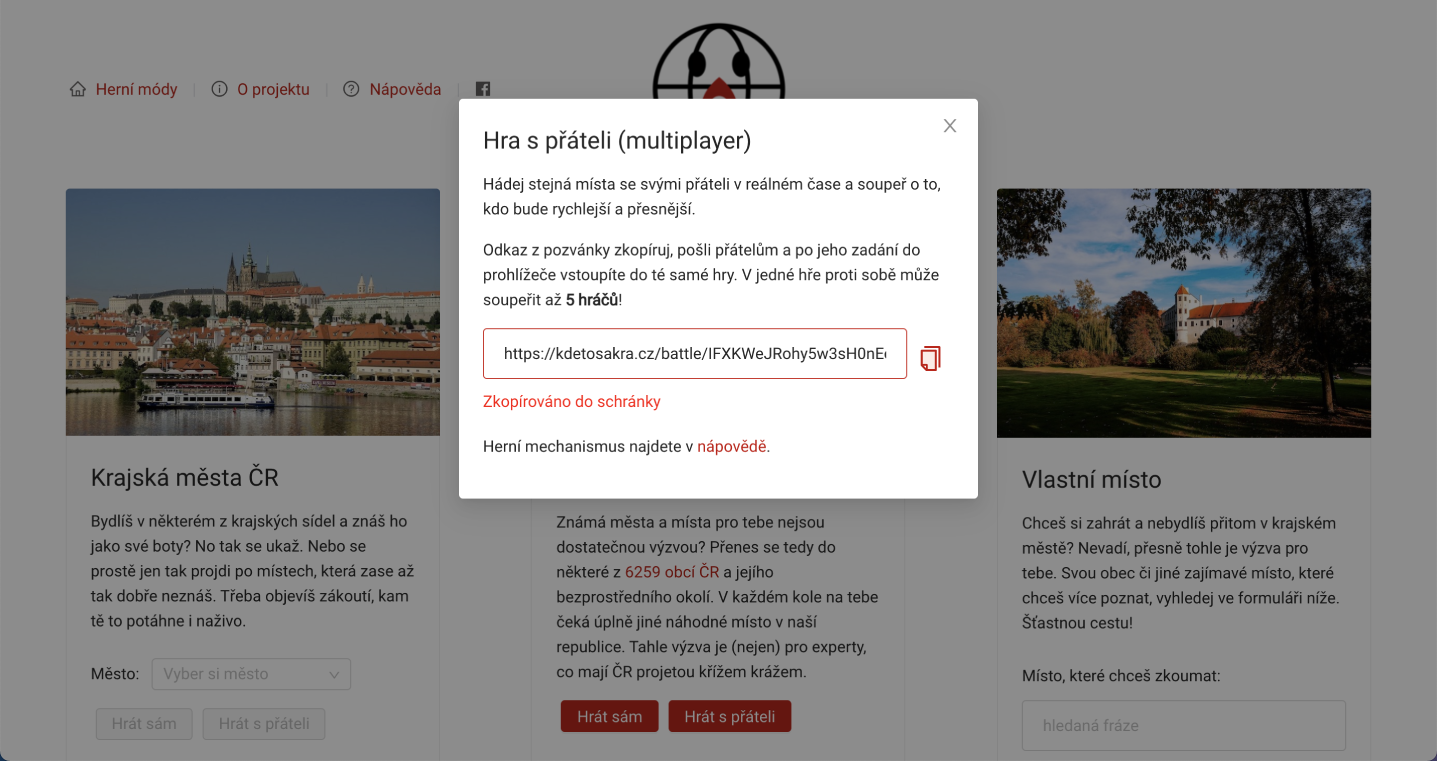
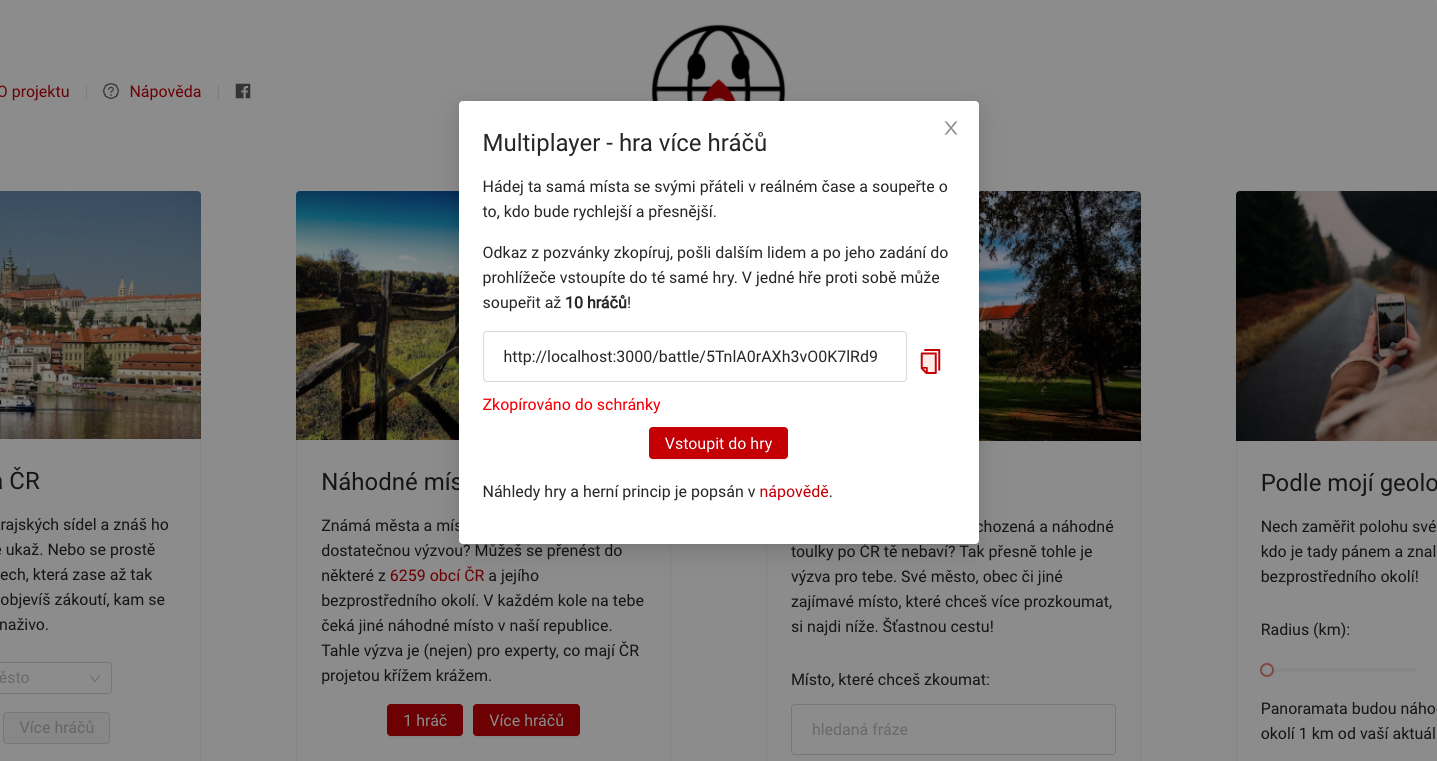
Game UX improvements

diff --git a/src/components/BattlePlayersList/BattlePlayersList.js b/src/components/BattlePlayersList/BattlePlayersList.js
@@ -85,6 +85,8 @@ const BattlePlayersList = ({ myPlayer, battleCanBeStarted }) => {
 
     const isBattleCreator = currentBattleInfo.createdById !== null && currentBattleInfo.createdById === randomUserToken;
 
+    const gameCreatorStartButtonDisabled = !battleCanBeStarted || !currentBattleInfo.myNickname || currentBattleInfo.myNickname.length < 2;
+
     useEffect(() => {
         if (inputEl.current !== null) {
             setGeneratedName(currentBattleInfo.myNickname);
@@ -260,17 +262,19 @@ const BattlePlayersList = ({ myPlayer, battleCanBeStarted }) => {
                 <>
                     <div key={`waiting-battle-players-detail-${i}`} className="battle-players-detail">
                         {myPlayer?.userId === userId ? (
-                            <Input
-                                bordered={false}
-                                size="small"
-                                maxLength={20}
-                                defaultValue={name}
-                                disabled={isBattleCreator ? false : isReady}
-                                ref={inputEl}
-                                onChange={e => {
-                                    dispatch(setMyUserInfoNicknameToCurrentBattle(e.target.value));
-                                }}
-                            />
+                            <>
+                                <Input
+                                    bordered={false}
+                                    size="small"
+                                    maxLength={20}
+                                    defaultValue={name}
+                                    disabled={isBattleCreator ? false : isReady}
+                                    ref={inputEl}
+                                    onChange={e => {
+                                        dispatch(setMyUserInfoNicknameToCurrentBattle(e.target.value));
+                                    }}
+                                />
+                            </>
                         ) : (
                             <div className="battle-players-detail--name">{name}</div>
                         )}
@@ -316,11 +320,7 @@ const BattlePlayersList = ({ myPlayer, battleCanBeStarted }) => {
                     <div className="battle-players">{battleId && getPlayersBeforeGameStarted()}</div>
                     {isBattleCreator ? (
                         <Button
-                            disabled={
-                                !battleCanBeStarted
-                                || !currentBattleInfo.myNickname
-                                || currentBattleInfo.myNickname.length < 2
-                            }
+                            disabled={gameCreatorStartButtonDisabled}
                             type="primary"
                             onClick={async () => {
                                 // if the user is a battle creator, he will generate rounds here
@@ -370,7 +370,11 @@ const BattlePlayersList = ({ myPlayer, battleCanBeStarted }) => {
                     )}
                     <p style={{ marginTop: '10px' }}>
                         {isBattleCreator ? (
-                            <>Hru můžeš začít, až budou všichni ostatní hráči připraveni.</>
+                            <>
+                                {gameCreatorStartButtonDisabled
+                                    ? 'Hru můžeš začít, až budou všichni ostatní hráči připraveni.'
+                                    : ''}
+                            </>
                         ) : (
                             <>
                                 Hra začíná, až všichni hráči zvolí možnost

diff --git a/src/components/BattleLinkModal/BattleLinkModal.js b/src/components/BattleLinkModal/BattleLinkModal.js
@@ -7,6 +7,7 @@ import { CopyTwoTone } from '@ant-design/icons';
 import { Link } from 'react-router-dom';
 import { createBattle } from '../../services/firebase';
 import useGetRandomUserToken from '../../hooks/useGetRandomUserToken';
+import { MAX_ALLOWED_BATTLE_PLAYERS } from '../../constants/game';
 
 const BattleLinkModal = ({
     visible, handleBattleModalVisibility, mode, radius, selectedCity,
@@ -36,7 +37,11 @@ const BattleLinkModal = ({
                         Odkaz z pozvánky zkopíruj, pošli dalším lidem a po jeho zadání do prohlížeče vstoupíte do té
                         samé hry. V jedné hře proti sobě může soupeřit až
                         {' '}
-                        <b>5 hráčů</b>
+                        <b>
+                            {MAX_ALLOWED_BATTLE_PLAYERS}
+                            {' '}
+                            hráčů
+                        </b>
                         !
                     </p>
                     <div className="battle-link-container">
@@ -50,6 +55,14 @@ const BattleLinkModal = ({
                         </div>
                     </div>
                     {isCopied ? <span style={{ color: 'red' }}>Zkopírováno do schránky</span> : null}
+                    <div style={{ display: 'flex', justifyContent: 'center', marginTop: '10px' }}>
+                        <Button type="primary">
+                            {/* eslint-disable-next-line react/jsx-no-target-blank */}
+                            <a href={battleLink} target="_blank" rel="noreferrer">
+                                Vstoupit do hry
+                            </a>
+                        </Button>
+                    </div>
                 </>
             )}
             <Spin spinning={generateLinkInProgress} size="large">

diff --git a/src/pages/Help.js b/src/pages/Help.js
@@ -1,6 +1,7 @@
 import React from 'react';
 import { Layout, Image } from 'antd';
 import { Link } from 'react-router-dom';
+import { MAX_ALLOWED_BATTLE_PLAYERS } from '../constants/game';
 
 const { Content } = Layout;
 
@@ -50,8 +51,13 @@ export const Help = () => {
                         K vytvoření hry pro více hráčů a jejímu hraní není nutná registrace. Tvůrce hry (ten, co chce
                         pozvat ke hře jiné hráče) vybere jeden z herních módů a jako typ hry zvolí &quot;Hrát s
                         přáteli&quot;. V následujícím dialogu vygeneruje pozvánku a získá unikátní odkaz, který si
-                        zkopíruje a zašle jej dalším hráčům. Může pozvat až 4 další hráče. Hráči si otevřou zaslaný
-                        odkaz v prohlížeči a všichni se octnou ve společné herní místnosti (viz dále).
+                        zkopíruje a zašle jej dalším hráčům. Může pozvat až
+                        {' '}
+                        {MAX_ALLOWED_BATTLE_PLAYERS - 1}
+                        {' '}
+                        dalších
+                        hráčů. Hráči si otevřou zaslaný odkaz v prohlížeči a všichni se octnou ve společné herní
+                        místnosti (viz dále).
                     </p>
                     <div style={{ display: 'flex', justifyContent: 'center' }}>
                         <Image

diff --git a/src/pages/results/BattleResult.js b/src/pages/results/BattleResult.js
@@ -2,7 +2,7 @@ import React, { useMemo, useState } from 'react';
 import { Progress, Tabs } from 'antd';
 import { Redirect } from 'react-router-dom';
 import { useSelector } from 'react-redux';
-import { roundToTwoDecimal, sortPlayersByHighestScore } from '../../util';
+import { sortPlayersByHighestScore } from '../../util';
 import { TOTAL_ROUNDS_MAX } from '../../constants/game';
 import ResultSMap from '../../components/ResultSMap';
 import useGetRandomUserToken from '../../hooks/useGetRandomUserToken';
@@ -69,7 +69,7 @@ export const BattleResult = ({ renderPlayAgainButton }) => {
                             {activePlayerStructure && (
                                 <Progress
                                     type="circle"
-                                    percent={roundToTwoDecimal(activePlayerStructure.score / TOTAL_ROUNDS_MAX)}
+                                    percent={Math.round(activePlayerStructure.score / TOTAL_ROUNDS_MAX)}
                                 />
                             )}
                         </div>

diff --git a/src/pages/Info.js b/src/pages/Info.js
@@ -25,7 +25,7 @@ export const Info = () => {
                     alternativa k populární zahraniční hře
                     {' '}
                     {/* eslint-disable-next-line react/jsx-no-target-blank */}
-                    <a href="https://geoguessr.com/" target="_blank">
+                    <a href="https://geoguessr.com/" target="_blank" rel="noreferrer">
                         GeoGuessr
                     </a>
                     .
@@ -34,7 +34,7 @@ export const Info = () => {
                     Hra využívá panoramata a mapové podklady aplikace
                     {' '}
                     {/* eslint-disable-next-line react/jsx-no-target-blank */}
-                    <a href="https://api.mapy.cz/" target="_blank">
+                    <a href="https://api.mapy.cz/" target="_blank" rel="noreferrer">
                         Mapy.cz od Seznamu
                     </a>
                     . Hratelnost je takřka neomezená a jedinou hranicí je hranice České republiky 🇨🇿

diff --git a/src/pages/results/SingleResult.js b/src/pages/results/SingleResult.js
@@ -2,7 +2,6 @@ import React from 'react';
 import { useSelector } from 'react-redux';
 import { Redirect } from 'react-router-dom';
 import { Progress } from 'antd';
-import { roundToTwoDecimal } from '../../util';
 import { TOTAL_ROUNDS_MAX } from '../../constants/game';
 import ResultSMap from '../../components/ResultSMap';
 import { RoundsSummary } from './RoundsSummary';
@@ -29,7 +28,7 @@ export const SingleResult = ({ renderPlayAgainButton }) => {
                     <div className="result-modal-container">
                         <div className="result-container-item">
                             <h3>Celková průměrná přesnost</h3>
-                            <Progress type="circle" percent={roundToTwoDecimal(totalScore / TOTAL_ROUNDS_MAX)} />
+                            <Progress type="circle" percent={Math.round(totalScore / TOTAL_ROUNDS_MAX)} />
                         </div>
                     </div>
                     <div className="result-modal-container">

diff --git a/src/App.js b/src/App.js
@@ -59,7 +59,7 @@ function MainApp(props) {
                                 <>
                                     {' | '}
                                     {/* eslint-disable-next-line react/jsx-no-target-blank */}
-                                    <a href="https://www.buymeacoffee.com/mmwbwdq" target="_blank">
+                                    <a href="https://www.buymeacoffee.com/mmwbwdq" target="_blank" rel="noreferrer">
                                         Kup mi kafe - podpoříš provoz a další rozvoj
                                         {' '}
                                         <CoffeeOutlined />
@@ -77,7 +77,7 @@ function MainApp(props) {
 const ClearCacheComponent = withClearCache(MainApp);
 
 function App() {
-    return <ClearCacheComponent />;
+    return <MainApp />;
 }
 
 export default App;

diff --git a/src/containers/ModesOverview.js b/src/containers/ModesOverview.js
@@ -74,6 +74,7 @@ export const ModesOverview = () => {
                         <a
                             href="https://www.youtube.com/playlist?list=PLtFesIeBF_meZrA0cGcPhMp_nUl79_AWI"
                             target="_blank"
+                            rel="noreferrer"
                         >
                             Kdepak jsme?
                         </a>
@@ -83,6 +84,7 @@ export const ModesOverview = () => {
                         <a
                             href="https://www.youtube.com/playlist?list=PLgtWt-mElPivScJgTABHu--vjAB9uOzxe"
                             target="_blank"
+                            rel="noreferrer"
                         >
                             LakelyDorton
                         </a>

diff --git a/src/components/RoundResultModal/RoundResultModal.js b/src/components/RoundResultModal/RoundResultModal.js
@@ -28,6 +28,7 @@ const RoundResultModal = ({
             onOk={() => closeModal(false)}
             onCancel={() => closeModal(false)}
             footer={null}
+            centered
         >
             <div className="result-modal-container">
                 {currentRound > 0 ? (
@@ -62,7 +63,7 @@ const RoundResultModal = ({
                     {totalRoundScore >= 0 ? (
                         <div className="result-modal-container-item">
                             <h4>Průběžný počet bodů</h4>
-                            {roundToTwoDecimal(totalRoundScore)}
+                            {Math.round(totalRoundScore)}
                         </div>
                     ) : null}
                 </div>

diff --git a/src/util/result.js b/src/util/result.js
@@ -1,10 +1,9 @@
-import { roundToTwoDecimal } from './index';
 import { TOTAL_ROUNDS_MAX } from '../constants/game';
 import gameModes from '../enums/modes';
 import { saveCityScore, saveRandomScore } from '../services/api';
 
 export const storeResult = (mode, city, totalRoundScore, randomUserResultToken) => {
-    const percent = roundToTwoDecimal(totalRoundScore / TOTAL_ROUNDS_MAX);
+    const percent = Math.round(totalRoundScore / TOTAL_ROUNDS_MAX);
     if (randomUserResultToken) {
         if (mode === gameModes.random) {
             saveRandomScore(randomUserResultToken, percent).catch(err => {

diff --git a/src/constants/game.js b/src/constants/game.js
@@ -3,5 +3,5 @@ export const MAX_SCORE_PERCENT = 100;
 export const MAX_PANORAMA_TRIES = 5;
 export const DEFAULT_PANORAMA_TOLERANCE = 50;
 export const TOTAL_ROUNDS_MAX = 5;
-export const MAX_ALLOWED_BATTLE_PLAYERS = 5;
+export const MAX_ALLOWED_BATTLE_PLAYERS = 10;
 export const resultPathColors = ['#00bc57', '#6e45f9', '#29c2ff', '#f99b45', '#f945a9'];
